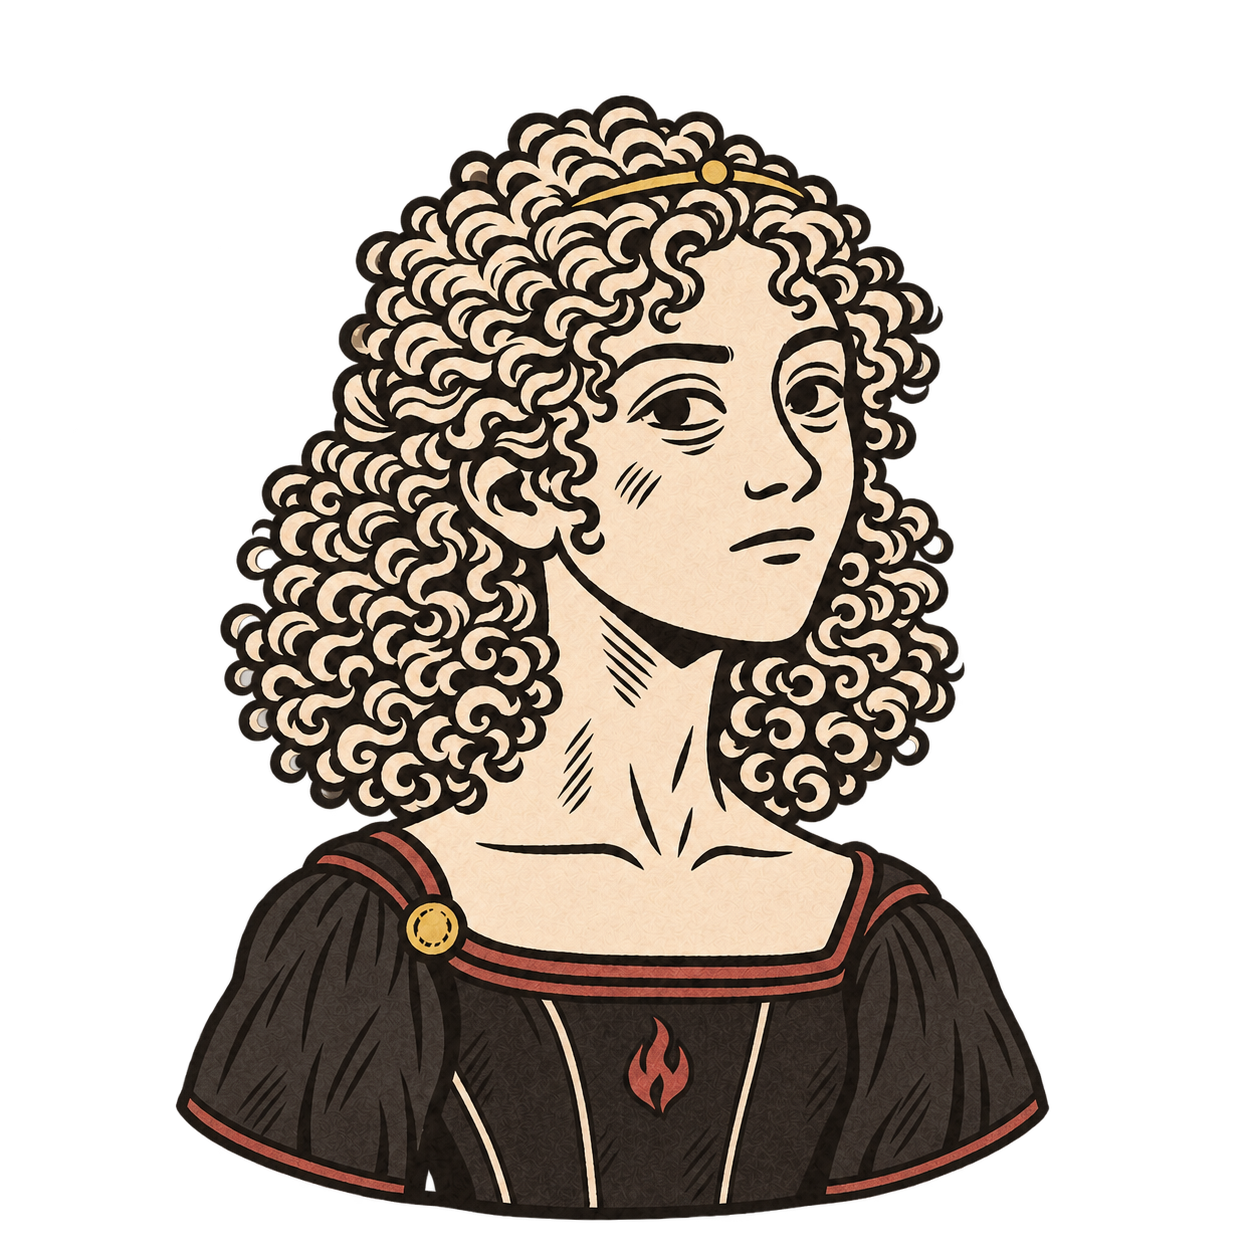
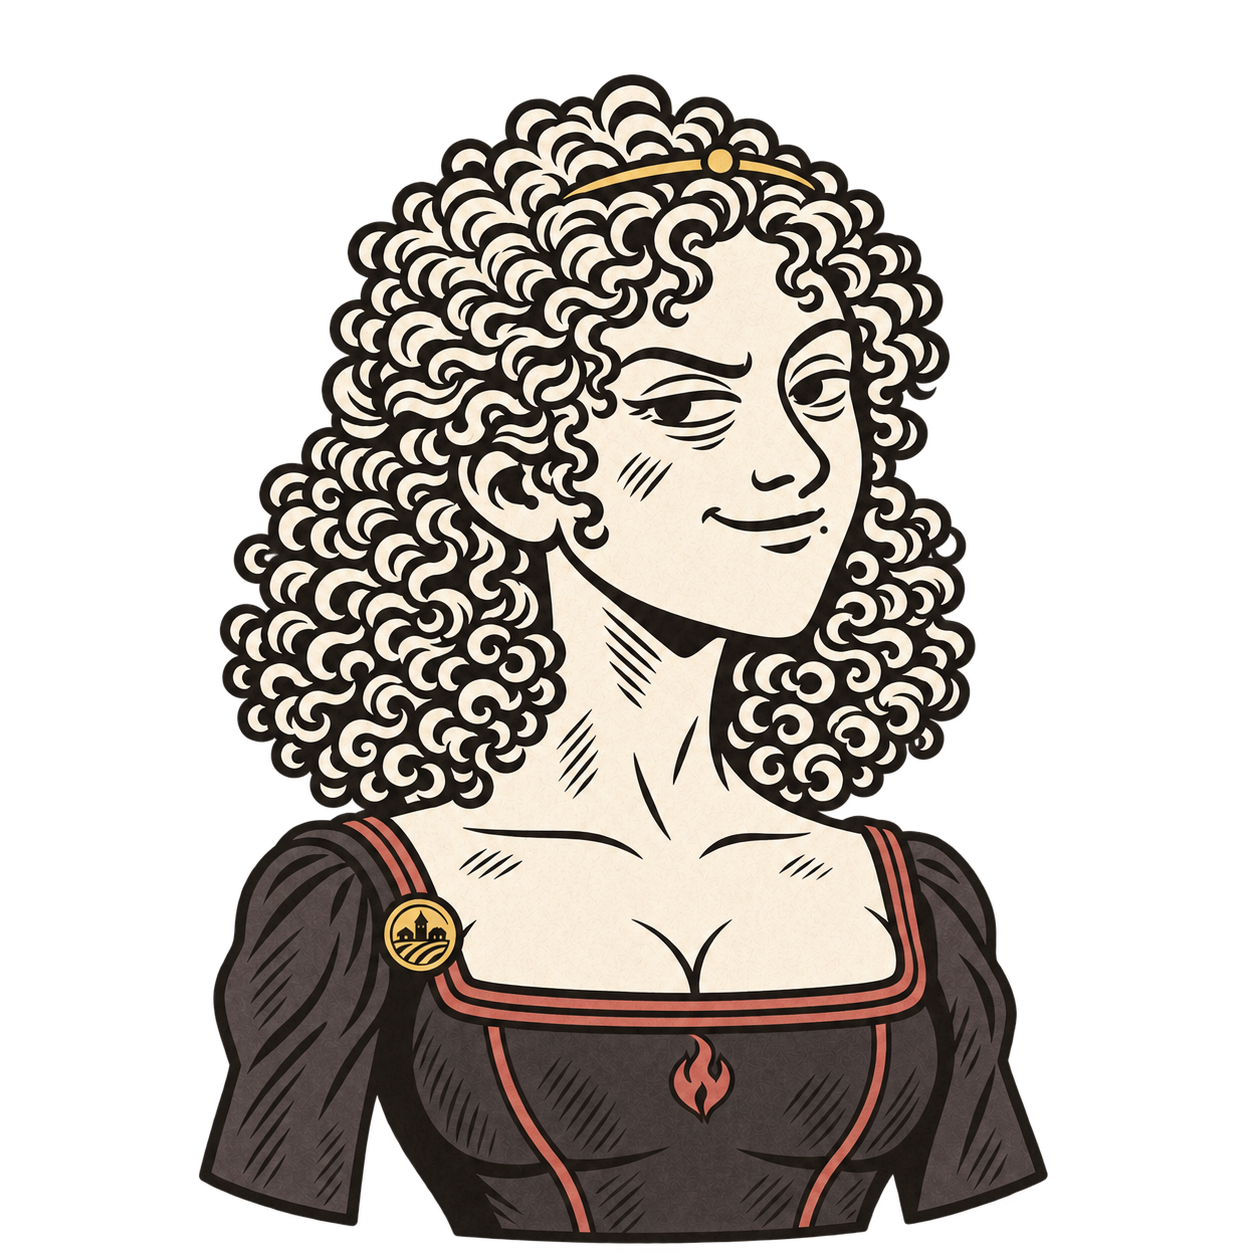
Refina heroina e oculta controles de debug

diff --git a/js/ui.js b/js/ui.js
@@ -2,6 +2,7 @@
   "use strict";
   const Jogo = window.Jogo;
   const app = document.getElementById("app");
+  let debugRevelado = false;
   const imagensComTomDaVila = new Set([
     "assets/geada.webp",
     "assets/espelho-do-antecessor.webp",
@@ -464,26 +465,23 @@
   }
 
   function modoDebug() {
-    try {
-      return (
-        window.DEBUG_JOGO === true ||
-        new URLSearchParams(window.location.search).get("debug") === "1" ||
-        window.localStorage.getItem("debug_jogo") === "1" ||
-        window.localStorage.getItem("debug_forcar_druida") === "1" ||
-        window.localStorage.getItem("debug_forcar_menino") === "1"
-      );
-    } catch {
-      return window.DEBUG_JOGO === true;
-    }
+    return debugRevelado;
+  }
+
+  function alternarDebug() {
+    debugRevelado = !debugRevelado;
+    document.body.classList.toggle("debug-visivel", debugRevelado);
+    return debugRevelado;
   }
 
   function menu(run, focarLegado = false) {
     const forcarDruida = window.localStorage.getItem("debug_forcar_druida") === "1";
     const forcarConselheiro = window.localStorage.getItem("debug_forcar_menino") === "1";
+    const forcarHeroi = window.localStorage.getItem("debug_forcar_heroi") === "1";
     mostrar(
       `
       <section class="abertura" aria-labelledby="titulo-inicio">
-        <div class="abertura-arte"><img src="assets/vila.webp" alt="Uma vila medieval sob a vigília de um castelo" width="1024" height="1024"></div>
+        <button type="button" class="abertura-arte" data-acao="debug-alternar" aria-pressed="${modoDebug()}" aria-label="Imagem da vila: clique para ${modoDebug() ? "ocultar" : "mostrar"} os controles de debug"><img src="assets/vila.webp" alt="Uma vila medieval sob a vigília de um castelo" width="1024" height="1024"></button>
         <div class="abertura-texto">
           <h1 id="titulo-inicio">A maldição do Herdeiro</h1>
           <p class="subtitulo">A terra será sua.<br>As consequências, de todos.</p>
@@ -501,6 +499,7 @@
             <button class="botao debug-transformacoes-menu" data-acao="debug-transformacoes">Debug: ver transformações</button>
             <button class="botao debug-druida-menu" data-acao="debug-alternar-druida" aria-pressed="${forcarDruida}">Debug: sempre iniciar como Druida · ${forcarDruida ? "ativo" : "inativo"}</button>
             <button class="botao debug-conselheiro-menu" data-acao="debug-alternar-conselheiro" aria-pressed="${forcarConselheiro}">Debug: sempre iniciar como Conselheiro · ${forcarConselheiro ? "ativo" : "inativo"}</button>
+            <button class="botao debug-heroi-menu" data-acao="debug-alternar-heroi" aria-pressed="${forcarHeroi}">Debug: sempre iniciar como Heroína do povo · ${forcarHeroi ? "ativo" : "inativo"}</button>
           </div>
           <p class="nota">${run ? "Há uma história esperando por você." : "Sua primeira história ainda não foi escrita."}</p>
         </div>
@@ -631,6 +630,7 @@
   function escolherHerdeiro(legado) {
     const disponiveis = new Set(Jogo.estado.tracosDisponiveis(legado));
     const debug = modoDebug();
+    const forcarHeroi = window.localStorage.getItem("debug_forcar_heroi") === "1";
     const opcoesHerdeiro = [
       {
         traco: "corajoso",
@@ -681,9 +681,15 @@
         <div class="selecao-herdeiro-lista">${opcoesHerdeiro
           .map((herdeiro) => {
             const desbloqueado =
-              disponiveis.has(herdeiro.traco) || (debug && herdeiro.traco === "menino_cronista");
+              disponiveis.has(herdeiro.traco) ||
+              (debug && herdeiro.traco === "menino_cronista") ||
+              (herdeiro.traco === "heroi_do_povo" && forcarHeroi);
             const nomeHerdeiro =
-              debug && herdeiro.traco === "menino_cronista" ? "O Conselheiro (debug)" : herdeiro.nome;
+              debug && herdeiro.traco === "menino_cronista"
+                ? "O Conselheiro (debug)"
+                : forcarHeroi && herdeiro.traco === "heroi_do_povo"
+                  ? "A Heroína do povo (debug)"
+                  : herdeiro.nome;
             const descricaoHerdeiro =
               debug && herdeiro.traco === "menino_cronista"
                 ? "70 Vida, 3 Escudo e 30 Honra no início."
@@ -1515,6 +1521,7 @@
 
   Jogo.ui = {
     menu,
+    alternarDebug,
     painelLegado,
     escolherHerdeiro,
     intro,

diff --git a/css/style.css b/css/style.css
@@ -97,7 +97,8 @@ body[data-tela="inicio"] #app, body[data-tela="fim"] #app { display: flex; align
 .carregando { padding: 32px 0; }
 
 .abertura { display: grid; grid-template-columns: 1.1fr 1fr; gap: 48px; align-items: center; width: 100%; max-width: 1056px; margin: 0 auto; padding: 20px 0; }
-.abertura-arte { border: 0; padding: 0; }
+.abertura-arte { display: block; width: 100%; border: 0; padding: 0; background: transparent; color: inherit; cursor: pointer; }
+.abertura-arte:focus-visible { outline: 2px solid var(--tinta); outline-offset: 4px; }
 .abertura-arte img { width: 100%; height: min(62dvh, 500px); object-fit: contain; }
 .abertura-texto { max-width: 430px; }
 .subtitulo { font-size: 23px; line-height: 1.3; }
@@ -105,7 +106,8 @@ body[data-tela="inicio"] #app, body[data-tela="fim"] #app { display: flex; align
 .acoes-menu { display: grid; gap: 10px; margin-top: 20px; }
 .acoes-menu .botao { width: 100%; }
 .acoes-menu .botao span { font-size: 14px; }
-.acoes-menu .debug-transformacoes-menu, .acoes-menu .debug-druida-menu, .acoes-menu .debug-menino-menu { margin-top: 5px; border-style: dashed; color: var(--secundaria); font-size: 13px; }
+.acoes-menu .debug-transformacoes-menu, .acoes-menu .debug-druida-menu, .acoes-menu .debug-menino-menu, .acoes-menu .debug-heroi-menu { margin-top: 5px; border-style: dashed; color: var(--secundaria); font-size: 13px; }
+body:not(.debug-visivel) .acoes-menu .debug-transformacoes-menu, body:not(.debug-visivel) .acoes-menu .debug-druida-menu, body:not(.debug-visivel) .acoes-menu .debug-conselheiro-menu, body:not(.debug-visivel) .acoes-menu .debug-heroi-menu, body:not(.debug-visivel) .testes-debug { display: none !important; }
 .abertura-texto > .nota { margin-top: 16px; }
 .painel-legado, .painel-backup { border-top: 1px solid #514a40; }
 .painel-legado > summary, .painel-backup > summary { display: flex; align-items: center; justify-content: space-between; min-height: 44px; cursor: pointer; color: var(--secundaria); font-size: 14px; list-style: none; }
@@ -582,13 +584,16 @@ body[data-tela="intro"] .marca { visibility: hidden; }
   .construcoes-resumo summary { min-width: 44px; height: 44px; }
   .titulo-run h1 { font-size: 19px; }
   .titulo-run p { font-size: 11px; }
-  .titulo-run .botao { font-size: 12px; padding: 0; min-height: 36px; text-align: right; max-width: 68px; }
+  .titulo-run .botao { font-size: 12px; padding: 0; min-height: 36px; text-align: right; }
   .titulo-run > .botao { grid-column: 2; grid-row: 1; }
   .recursos-vila { grid-column: 1 / -1; grid-row: 2; width: 100%; justify-content: space-between; gap: 8px; margin: 0; }
   .recurso-contador dt { font-size: 12px; max-width: none; }
   .recurso-contador dd { font-size: 23px; }
-  .cronica { --altura-cartas: min(23dvh, 180px); }
+  .cronica { --altura-cartas: min(30dvh, 220px); }
   .mesa { gap: 10px; }
+  .carta-evento { transform: none; }
+  .botao-tutorial { min-height: 36px !important; padding: 4px 0 !important; border: 0 !important; background: transparent !important; box-shadow: none !important; color: #e8cf8b; }
+  .botao-tutorial svg { display: none; }
   .evento-detalhes { width: 100%; }
   .atributos { display: grid; grid-template-columns: repeat(4, minmax(0, 1fr)); gap: 4px; }
   .atributo { text-align: center; }
@@ -643,7 +648,7 @@ body[data-tela="intro"] .marca { visibility: hidden; }
   .alteracoes li:only-child { grid-column: 1 / -1; }
 }
 @media (max-width: 600px) and (max-height: 700px) {
-  .abertura-arte { display: none; }
+  .abertura-arte img { height: min(13dvh, 78px); }
   .testes-honra { display: flex; align-items: center; gap: 4px; }
   .testes-honra dt { max-width: 35px; line-height: 1.15; }
   .testes-honra dd { margin: 0; }

diff --git a/js/main.js b/js/main.js
@@ -1,6 +1,10 @@
 (function () {
   "use strict";
   const Jogo = window.Jogo;
+  try {
+    for (const chave of ["debug_jogo", "debug_forcar_druida", "debug_forcar_menino", "debug_forcar_heroi"])
+      window.localStorage.removeItem(chave);
+  } catch {}
   let run = Jogo.save.lerRun();
   let ocupado = false;
 
@@ -58,11 +62,13 @@
     const legado = Jogo.save.lerLegado();
     const tracoForcado =
       personagem ||
-      (window.localStorage.getItem("debug_forcar_menino") === "1"
-        ? "menino_cronista"
-        : window.localStorage.getItem("debug_forcar_druida") === "1"
-          ? "druida_herdeiro"
-          : null);
+      (window.localStorage.getItem("debug_forcar_heroi") === "1"
+        ? "heroi_do_povo"
+        : window.localStorage.getItem("debug_forcar_menino") === "1"
+          ? "menino_cronista"
+          : window.localStorage.getItem("debug_forcar_druida") === "1"
+            ? "druida_herdeiro"
+            : null);
     run = Jogo.estado.novo(legado, tracoForcado);
     Jogo.legado.avaliar(run);
     const evento = Jogo.engine.sortear(run);
@@ -76,6 +82,10 @@
 
   async function acionar(acao, botao = null) {
     switch (acao) {
+      case "debug-alternar":
+        Jogo.ui.alternarDebug();
+        Jogo.ui.menu(run);
+        break;
       case "iniciar":
         if (run?.status === "ativa" && !(await Jogo.ui.confirmarNovaRun())) return;
         if (run?.status === "ativa") Jogo.save.registrarRotacaoRun(run);
@@ -119,6 +129,7 @@
         break;
       case "debug-alternar-druida":
         window.localStorage.setItem("debug_forcar_menino", "0");
+        window.localStorage.setItem("debug_forcar_heroi", "0");
         window.localStorage.setItem(
           "debug_forcar_druida",
           window.localStorage.getItem("debug_forcar_druida") === "1" ? "0" : "1",
@@ -127,9 +138,19 @@
         break;
       case "debug-alternar-conselheiro":
         window.localStorage.setItem("debug_forcar_druida", "0");
+        window.localStorage.setItem("debug_forcar_heroi", "0");
         window.localStorage.setItem(
           "debug_forcar_menino",
           window.localStorage.getItem("debug_forcar_menino") === "1" ? "0" : "1",
+        );
+        Jogo.ui.menu(run);
+        break;
+      case "debug-alternar-heroi":
+        window.localStorage.setItem("debug_forcar_druida", "0");
+        window.localStorage.setItem("debug_forcar_menino", "0");
+        window.localStorage.setItem(
+          "debug_forcar_heroi",
+          window.localStorage.getItem("debug_forcar_heroi") === "1" ? "0" : "1",
         );
         Jogo.ui.menu(run);
         break;

diff --git a/js/events-personagens-cadeias.js b/js/events-personagens-cadeias.js
@@ -195,7 +195,7 @@
       peso: 0.3,
       especial: true,
       conselheiro: true,
-      requisitos: { flags: ["menino_conselheiro"] },
+      requisitos: { flags: ["menino_conselheiro"], tracosAusentes: ["menino_cronista"] },
       imagem: "assets/eventos-pessoas/menino-conselheiro.webp",
       imagemAlt: "O jovem conselheiro, em vestes formais, apresenta suas contas do armazém",
       texto:
@@ -218,7 +218,7 @@
       peso: 0.3,
       especial: true,
       conselheiro: true,
-      requisitos: { flags: ["menino_conselheiro"] },
+      requisitos: { flags: ["menino_conselheiro"], tracosAusentes: ["menino_cronista"] },
       imagem: "assets/eventos-pessoas/menino-conselheiro.webp",
       imagemAlt: "O jovem conselheiro, em vestes formais, explica como reparar a ponte",
       texto:
@@ -249,7 +249,7 @@
       peso: 0.3,
       especial: true,
       conselheiro: true,
-      requisitos: { flags: ["menino_conselheiro"] },
+      requisitos: { flags: ["menino_conselheiro"], tracosAusentes: ["menino_cronista"] },
       imagem: "assets/eventos-pessoas/menino-conselheiro.webp",
       imagemAlt: "O jovem conselheiro, em vestes formais, orienta os guardas no treino",
       texto:

diff --git a/js/events.js b/js/events.js
@@ -714,7 +714,10 @@
       narrativamenteUnico: true,
       oncePerRun: true,
       peso: 2,
-      requisitos: { flagsAusentes: ["orfao_decidido"] },
+      requisitos: {
+        flagsAusentes: ["orfao_decidido"],
+        tracosAusentes: ["menino_cronista"],
+      },
       imagem: "assets/eventos-pessoas/menino-conselheiro.webp",
       imagemAlt: "O menino que espera diante do portão da vila",
       texto:
@@ -768,7 +771,12 @@
       titulo: "O menino e a espada",
       tipo: "encontro",
       peso: 3,
-      requisitos: { flags: ["orfao_acolhido"], flagsAusentes: ["orfao_resolvido"], rodadaMin: 8 },
+      requisitos: {
+        flags: ["orfao_acolhido"],
+        flagsAusentes: ["orfao_resolvido"],
+        tracosAusentes: ["menino_cronista"],
+        rodadaMin: 8,
+      },
       imagem: "assets/forja.webp",
       imagemAlt: "Espada de treino junto à bigorna do ferreiro",
       texto:

diff --git a/js/engine.js b/js/engine.js
@@ -147,6 +147,7 @@
         : requisitos.tracos === run.traco)
     )
       return false;
+    if (requisitos.tracosAusentes?.includes(run.traco)) return false;
     if (
       requisitos.rodadasDesde &&
       Object.entries(requisitos.rodadasDesde).some(
@@ -232,6 +233,7 @@
 
   function eventoDisponivel(evento, run, aleatorio = Math.random) {
     if (evento.letal && run.rodada < 6) return false;
+    if (run.traco === "menino_cronista" && evento.conselheiro) return false;
     if (run.flags.menino_conselheiro && evento.conselheiroPadrao && evento.conselhoNegativo) return false;
     if ((evento.letal || evento.oncePerRun) && run.flags[`${evento.id}_visto`]) return false;
     if (evento.oncePerYear && run.flags[`${evento.id}_ano_${Jogo.anoDaRodada(run.rodada)}_visto`])
@@ -2007,6 +2009,7 @@
   Jogo.engine = {
     cumpre,
     pools,
+    eventoDisponivel,
     opcoes,
     peso,
     sortear,

diff --git a/js/events-foundations.js b/js/events-foundations.js
@@ -319,6 +319,7 @@
       disparadoPelaEngine: true,
       consequenciaAgendada: true,
       oncePerRun: true,
+      requisitos: { tracosAusentes: ["menino_cronista"] },
       imagem: "assets/eventos-pessoas/menino-conselheiro.webp",
       imagemAlt: "O adolescente acolhido pela vila, com o traje formal de conselheiro",
       texto:
@@ -349,6 +350,7 @@
       peso: 0,
       disparadoPelaEngine: true,
       consequenciaAgendada: true,
+      requisitos: { tracosAusentes: ["menino_cronista"] },
       imagem: "assets/eventos-pessoas/menino-conselheiro.webp",
       imagemAlt: "O adolescente conselheiro apresenta sua primeira proposta à vila",
       texto:

diff --git a/index.html b/index.html
@@ -10,7 +10,7 @@
   <!-- A escrita durante o parsing preserva defer e a ordem de execução em file://. -->
   <script>
     (() => {
-      const VERSAO_ASSETS = "20261105-23";
+      const VERSAO_ASSETS = "20261105-24";
       window.JOGO_VERSAO_ASSETS = VERSAO_ASSETS;
       document.write(`<link rel="stylesheet" href="css/style.css?v=${VERSAO_ASSETS}">`);
       const arquivos = [

diff --git a/js/events-vila.js b/js/events-vila.js
@@ -730,6 +730,7 @@
           rodadaMin: 8,
           flags: ["orfao_explorado"],
           flagsAusentes: ["orfao_resolvido"],
+          tracosAusentes: ["menino_cronista"],
         },
         texto:
           "O menino que carregava sacos fez uma trouxa menor do que as dívidas que você lhe deve. Ele está parado no portão e não chora.",

diff --git a/MEMORIA-ILUSTRACOES.md b/MEMORIA-ILUSTRACOES.md
@@ -20,12 +20,15 @@ Consulte este arquivo antes de qualquer geração, edição ou avaliação de ar
 | Riqueza de gravura para eventos especiais | `assets/eventos-especiais/norte-odin.png`, `norte-freya.png` e `norte-loki.png` | Referência de hachuras, personalidade, silhueta e pequenos acentos dourados. Aproveitar a técnica; não copiar símbolos ou roupas sem relação com o evento. |
 | Retratos de personagens de evento | O retrato atual da mesma personagem; para acabamento, comparar `assets/eventos-pessoas/ferreiro.png`, `padre.png`, `bruxa.png` e `viuva-do-moleiro.png` | Manter a identidade do rosto e acrescentar detalhes próprios ao ofício, roupa e história. Não reutilizar o mesmo figurino ou expressão para todos. |
 | Herdeiros | Primeiro, a arte neutra do mesmo herdeiro em `assets/herdeiros/`; usar `avarento-neutra.png`, `corajoso-neutra.png` e `doente-neutra.png` como referências obrigatórias de linguagem visual, busto e proporção | Todo novo personagem herdeiro deve parecer parte do elenco existente: contorno preto grosso e irregular, formas e rostos simplificados, hachura econômica, paleta chapada de marfim/preto com dourado localizado e busto recortado com fundo transparente. Preservar a identidade do novo personagem entre honra neutra/alta/baixa e culto; não copiar o rosto nem os adereços exclusivos de outro herdeiro. As roupas são a principal diferença entre estados; a expressão muda pouco e acompanha o estado, sem carregá-lo sozinha. Honra positiva pode melhorar corte e tecido, mas a honra máxima deve continuar contida, sem camadas volumosas ou louros. O culto deve ter roupa própria. |
+| Tom claro dos herdeiros | `assets/herdeiros/corajoso-neutra.png`, `avarento-neutra.png` e `doente-neutra.png` | Usar essas três artes como referência direta para pele, cabelo claro, tecido claro e áreas de luz. O tom médio observado nas áreas claras é aproximadamente `#F9EEDD`, com variação de papel e sombra preservada. Não usar branco puro nem o tom da vila `#D6CAB6` para herdeiros; esse tom pertence às cartas de evento. A referência visual dessas três imagens prevalece sobre o valor aproximado. |
 
 Algumas artes PNG de evento têm correção de cor na exibição por meio da classe `imagem-evento--tom-vila`, listada em `js/ui.js` e definida em `index.html`. Use-a quando uma nova arte ficar mais branca ou fria que `assets/vila.png`; não aplique a correção às imagens que já estiverem na tonalidade de referência.
 
 ## Decisões já definidas
 
 - Herdeiros são retratos de busto. A mulher usa tiara e vestido, não roupa pesada. Avarento e Doente usam coroa. Diferencie os trajes entre herdeiros; não use moedas ou flores na roupa do Avarento. A versão de culto deve ter roupa própria.
+- A Heroína do povo tem uma pequena pinta redonda logo abaixo do canto direito da boca (para quem olha) em todas as versões. Pele e áreas claras dos cachos usam o branco quente padrão dos herdeiros. As versões neutra e de honra mantêm mangas curtas lisas iguais, com os antebraços visíveis no recorte do busto; o culto conserva o formato próprio das mangas. Manter a mesma escala, posição vertical e altura visível entre as versões de honra; usar a honra +30 como referência das margens transparentes.
+- O plano `HERDEIROS-FUTUROS.md` define que novos retratos usem diretamente Corajoso, Avarento e Doente como referências visuais. A média aproximada das áreas claras é `#F9EEDD`; usar as imagens como fonte de verdade e não confundir esse tom com o marfim mais escuro da vila, que foi definido para eventos.
 - O Druida mantém a arte em preto e branco, com capa vermelha; na versão do culto, a noz dá lugar à chama do culto.
 - Cartas de personagens, deuses e entidades devem priorizar bustos quando a figura é o assunto principal. Cartas de cena podem mostrar o contexto necessário.
 - O dragão do zodíaco tem um pequeno detalhe dourado nas escamas para combinar com os demais animais.
